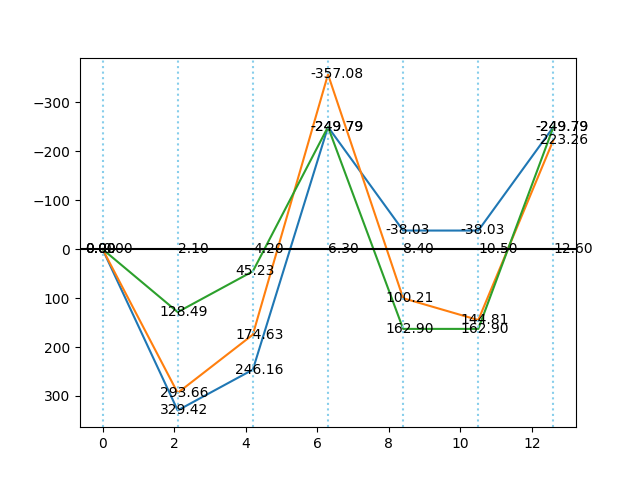
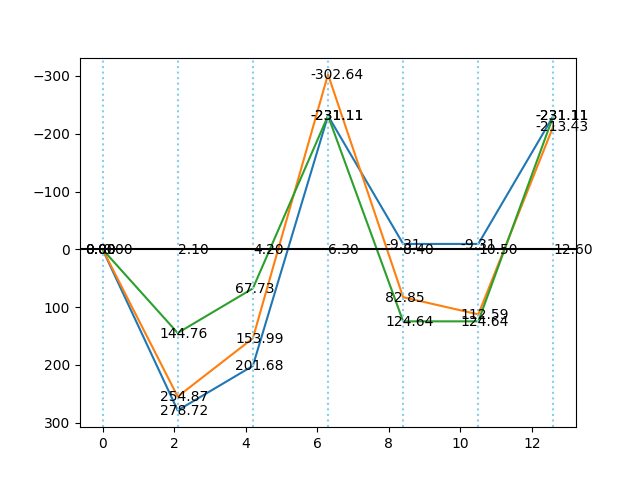
fix error calculate

diff --git a/tools/楼盖设计.py b/tools/楼盖设计.py
@@ -13,14 +13,14 @@ gamma_G, gamma_Q = 1.3, 1.5
 covering_soil_thickness, ceiling_thickness, ceiling_width = 0.3, 0.08, 2.1
 
 column = 0.5  # 柱宽 m
-grad_main, graid_minor, grad_ceiling = 6.300, 6.800, 2.100  # 轴网中梁的长度
+grad_main, grad_minor, grad_ceiling = 6.300, 6.800, 2.100  # 轴网中梁的长度
 
 l_0_main = grad_main  # 按弹性理论计算，主梁长度取支承中心线间距离
-h_ceiling, h_main = ceiling_thickness, l_0_main / 12
+h_ceiling, h_main = ceiling_thickness, 0.6  # l_0_main / 10
 b_ceiling, b_main = ceiling_width, h_main / 2.5
-l_n_minor = graid_minor - b_main
+l_n_minor = grad_minor - b_main
 l_0_minor = l_n_minor
-h_minor = l_0_minor / 15
+h_minor = 0.5  # l_0_minor / 14
 b_minor = h_minor / 2.5
 l_0_minor_end = min(1.025 * l_n_minor, l_n_minor + b_main / 2)
 l_n_ceiling = grad_ceiling - b_minor
@@ -29,12 +29,16 @@ l_0_ceiling_end = min(l_n_ceiling + h_ceiling / 2, l_n_ceiling + b_minor / 2)
 print(
     f"板 h: {h_ceiling:.2f}m b: {b_ceiling:.2f}m; \n主梁 h: {h_main:.2f}m b: {b_main:.2f}m; \n次梁 h: {h_minor:.2f}m b: {b_minor:.2f}m"
 )
+print(
+    f"板计算跨度{l_0_ceiling:.2f}m 边缘{l_0_ceiling_end:.2f}m\n次梁计算跨度{l_0_minor:.2f}m 边缘{l_0_minor_end:.2f}m\n板计算跨度{l_0_main:.2f}m"
+)
 s_n_minor = grad_ceiling - b_minor  # 次梁净距
+s_n_main = grad_minor - b_main  # 主梁净距
 
-c = 20
+c_1, c_2 = 20, 25
 f_c, f_t, f_y_300, f_y_400 = 14.3, 1.43, 270, 360
 d_ceiling = 10
-d_minor = 20
+d_minor = 22
 d_main = 25
 d_stirrup = 10
 alpha_1, beta_1 = 1.0, 0.8
@@ -42,7 +46,7 @@ alpha_s_max = 0.384
 xi_b = 0.518
 
 # 2号主梁设计弯矩，请自行按弯矩包络图确定
-M_designed_value_main_2 = 38.3
+M_designed_value_main_2 = -9.31
 
 
 def alpha_ms_inquire():
@@ -135,9 +139,9 @@ def minor_M_design_value_calculate(alpha_ms, g_k, q_k, l_0, l_0_e):
         + reinforced_concrete_bulk_density * (h_minor - h_ceiling) * b_minor
     )
     print(f"次梁永久载荷为 {g_k:.2f} kN/m")
-    q_k *= grad_ceiling * gamma_Q
+    q_k *= grad_ceiling
     g, q = load_calculate(g_k, q_k)
-    print(f"次梁永久载荷设计值为 {g:.2f} kN/m，次梁活载荷设计值为 {q} kN/m")
+    print(f"次梁永久载荷设计值为 {g:.2f} kN/m，次梁活载荷设计值为 {q:.2f} kN/m")
     return g, q, M_design_value_calculate(alpha_ms, g, q, l_0, l_0_e)
 
 
@@ -163,54 +167,68 @@ def is_xi_illegal(xis):
     print(f"xi小于xi_b：{xi_b}")
 
 
-def alpha_ses_calculate(M_designed_values, h_0):
-    return [m * 1e3 / (alpha_1 * f_c * b_ceiling * h_0**2) for m in M_designed_values]
+def alpha_ses_calculate(M_designed_values, h_0, b, b_f):
+    result = []
+    for m in M_designed_values:
+        if m > 0:
+            result.append(abs(m * 1e3 / (alpha_1 * f_c * b_f * h_0**2)))
+        else:
+            result.append(abs(m * 1e3 / (alpha_1 * f_c * b * h_0**2)))
+    return result
 
 
 def xis_calculate(alpha_ses):
-    return [1 - (1 - alpha_s) ** 0.5 for alpha_s in alpha_ses]
+    return [1 - (1 - 2 * alpha_s) ** 0.5 for alpha_s in alpha_ses]
 
 
 def gamma_ses_calculate(alpha_ses):
-    return [(1 + (1 - alpha_s) ** 0.5) / 2 for alpha_s in alpha_ses]
+    return [(1 + (1 - 2 * alpha_s) ** 0.5) / 2 for alpha_s in alpha_ses]
 
 
-def A_ses_calculate(xis, h_0, f_y):
-    return [1e3 * xi * b_ceiling * h_0 * alpha_1 * f_c / f_y for xi in xis]
+def A_ses_calculate(M, xis, h_0, f_y, b, b_f):
+    result = []
+    for i, xi in enumerate(xis):
+        if M[i] > 0:
+            result.append(1e3 * xi * b_f * h_0 * alpha_1 * f_c / f_y)
+        else:
+            result.append(1e3 * xi * b * h_0 * alpha_1 * f_c / f_y)
+    return result
 
 
 def A_ses_calculate2(Ms, gamma_ses, h_0, f_y):
-    return [1e6 * m / (gamma_s * f_y * h_0) for m, gamma_s in zip(Ms, gamma_ses)]
+    return [1e6 * abs(m) / (gamma_s * f_y * h_0) for m, gamma_s in zip(Ms, gamma_ses)]
 
 
 def ceiling_reinforcement(M_designed_values_ceiling):
-    h_0 = h_ceiling * 1000 - c - d_ceiling / 2
+    h_0 = h_ceiling * 1000 - c_1 - d_ceiling / 2
     print(f"板 h_0为{h_0}mm")
-    alpha_ses = alpha_ses_calculate(M_designed_values_ceiling, h_0)
+    alpha_ses = alpha_ses_calculate(
+        M_designed_values_ceiling, h_0, b_ceiling, b_ceiling
+    )
     print(f"板 alpha_s支座-跨中依次为{[round(alpha_s, 3) for alpha_s in alpha_ses]}")
     is_alpha_s_illegal(alpha_ses)
     xis = xis_calculate(alpha_ses)
     print(f"板 xi支座-跨中依次为{[round(xi, 3) for xi in xis]}")
     is_xi_illegal(xis)
-    A_ses = A_ses_calculate(xis, h_0, f_y_300)
+    A_ses = A_ses_calculate(
+        M_designed_values_ceiling, xis, h_0, f_y_300, b_ceiling, b_ceiling
+    )
     print(f"板 A_s支座-跨中依次为{[round(A_s, 3) for A_s in A_ses]}")
 
 
-def b_f_calculate():
-    return min(grad_ceiling, b_minor + s_n_minor, b_minor + 12 * h_ceiling)
-
-
 def minor_reinforcement(M_designed_values_minor):
-    h_0 = h_minor * 1000 - c - d_minor / 2 - d_stirrup
+    h_0 = h_minor * 1000 - c_2 - d_minor / 2 - d_stirrup
     print(f"次梁 一排纵筋h_0为{h_0:.0f}mm")
-    alpha_ses = alpha_ses_calculate(M_designed_values_minor, h_0)
-    print(f"次梁 alpha_s支座-跨中依次为{[round(alpha_s, 5) for alpha_s in alpha_ses]}")
+    b_f = min(grad_ceiling, b_minor + s_n_minor, b_minor + 12 * h_ceiling)
+    print(f"次梁翼缘宽度为{b_f:.3f}m")
+    alpha_ses = alpha_ses_calculate(M_designed_values_minor, h_0, b_minor, b_f)
+    print(f"次梁 alpha_s支座-跨中依次为{[round(alpha_s, 3) for alpha_s in alpha_ses]}")
     is_alpha_s_illegal(alpha_ses)
     xis = xis_calculate(alpha_ses)
-    print(f"次梁 xi支座-跨中依次为{[round(xi, 5) for xi in xis]}")
+    print(f"次梁 xi支座-跨中依次为{[round(xi, 3) for xi in xis]}")
     is_xi_illegal(xis)
-    A_ses = A_ses_calculate(xis, h_0, f_y_400)
-    print(f"次梁 A_s支座-跨中依次为{[round(A_s, 5) for A_s in A_ses]}mm²")
+    A_ses = A_ses_calculate(M_designed_values_minor, xis, h_0, f_y_400, b_minor, b_f)
+    print(f"次梁 A_s支座-跨中依次为{[round(A_s, 0) for A_s in A_ses]}mm²")
     print("-" * 10 + f"Warning: 次梁还未配箍筋" + "-" * 10)
 
 
@@ -252,10 +270,10 @@ def main_reinforcement(etas, g, q):
         * gamma_G
     )
     q = q * gamma_Q * max(etas)
-    print(f"主梁永久载荷设计值为 {g:.2f} kN/m²，主梁活载荷设计值为 {q:.2f} kN/m²")
-    M_1_max = 0.244 * g * l_0_main + 0.289 * g * l_0_main
-    M_B_max = -0.267 * g * l_0_main - 0.311 * g * l_0_main
-    M_2_max = -0.067 * g * l_0_main - 0.2 * g * l_0_main
+    print(f"主梁永久载荷设计值为 {g:.2f} kN，主梁活载荷设计值为 {q:.2f} kN")
+    M_1_max = 0.244 * g * l_0_main + 0.289 * q * l_0_main
+    M_B_max = -0.267 * g * l_0_main - 0.311 * q * l_0_main
+    M_2_max = 0.067 * g * l_0_main + 0.2 * q * l_0_main
     V_A_max = 0.733 * g + 0.866 * q
     V_Bl_max = -1.267 * g - 1.311 * q
     V_Br_max = 1 * g + 1.222 * q
@@ -296,21 +314,22 @@ def main_reinforcement(etas, g, q):
     print(f"{M_1l:8.2f}{M_1r:8.2f}{M_b:8.2f}{M_2l:8.2f}{M_2r:8.2f}{M_c:8.2f}")
     draw_bending_moment_envelope_diagram(Ms1, Ms2, Ms3)
 
-    h_0 = h_main * 1000 - c - d_ceiling - d_minor - d_main / 2
-    print(f"次梁 一排纵筋h_0为{h_0:.0f}mm")
+    h_0 = h_main * 1000 - c_2 - d_ceiling - d_minor - d_main / 2
+    print(f"主梁 一排纵筋h_0为{h_0:.0f}mm")
+    b_f = min(l_0_main / 3, b_main + s_n_minor)
     M_designed_values_main = [
         M_1_max,
-        -M_B_max + (V_A_max + V_Bl_max) * column / 2,
-        -M_2_max,
+        M_B_max - (-g - q) * column / 2,
+        M_2_max,
         M_designed_value_main_2,
     ]
-    alpha_ses = alpha_ses_calculate(M_designed_values_main, h_0)
-    print(f"主梁 alpha_s支座-跨中依次为{[round(alpha_s, 5) for alpha_s in alpha_ses]}")
+    alpha_ses = alpha_ses_calculate(M_designed_values_main, h_0, b_main, b_f)
+    print(f"主梁 alpha_s支座-跨中依次为{[round(alpha_s, 3) for alpha_s in alpha_ses]}")
     is_alpha_s_illegal(alpha_ses)
     gamma_ses = gamma_ses_calculate(alpha_ses)
-    print(f"主梁 gamma_ses支座-跨中依次为{[round(gamma_s, 5) for gamma_s in gamma_ses]}")
+    print(f"主梁 gamma_ses支座-跨中依次为{[round(gamma_s, 3) for gamma_s in gamma_ses]}")
     A_ses = A_ses_calculate2(M_designed_values_main, gamma_ses, h_0, f_y_400)
-    print(f"主梁 A_s支座-跨中依次为{[round(A_s, 5) for A_s in A_ses]}mm²")
+    print(f"主梁 A_s支座-跨中依次为{[round(A_s, 0) for A_s in A_ses]}mm²")
     print("-" * 10 + f"Warning: 主梁还未配箍筋" + "-" * 10)
 
 
@@ -339,8 +358,6 @@ if __name__ == "__main__":
         alpha_vs, g, q, l_0_minor, l_0_minor_end
     )
     print(f"次梁剪力设计值支座-跨中依次为{[round(Fn, 2) for Fn in Fn_designed_values_minor]}kN")
-    b_f = b_f_calculate()
-    print(f"次梁翼缘宽度为{b_f:.3f}m")
     minor_reinforcement(M_designed_values_minor)
 
     etas_gen = etas_inquire()
